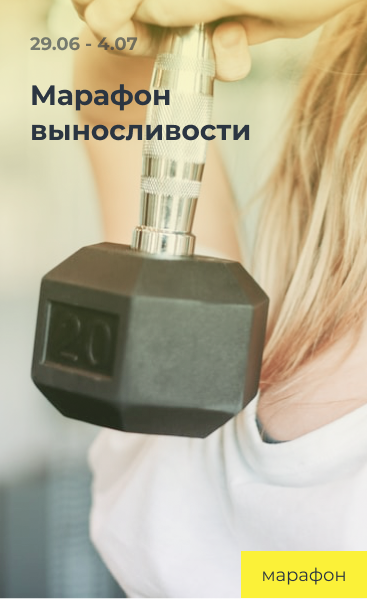
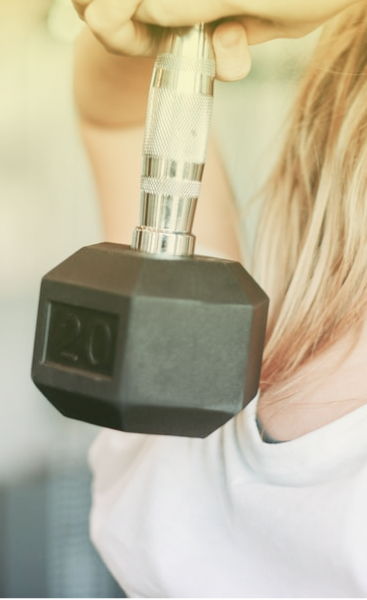
do 600px resolution complited

diff --git a/index.html b/index.html
@@ -53,23 +53,34 @@
                 <img class="pop-up-circle" src="img/circle.svg" alt="circle">
                 <p class="pop-up-title">Заявка на участие<br>«Марафон выносливости»</p>
                 <p class="pop-up-caption">Заполните все поля, и мы пришлем информацию в ближайшее время</p>
+                <form action="">
                 <input class="email" id="pop-up-email" type="email" placeholder="Ваш Email">
                 <input class="email" id="pop-up-email" type="tel" pattern="+7[0-9]{3}-[0-9]{3}-[0-9]{2}-[0-9]{2}" placeholder="Ваш номер телефона">
                 <input class="submit" type="button" value="Отправить">
+                </form>
             </div>
             <h2 class="event-title">Ближайшие события</h2>
             <div class="webinar">
                 <div class="webinar-caption">
+                   <p class="webinar-date">29.06 - 4.07</p>
+                   <p class="webinar-title">Марафон выносливости</p>
+                   <div class="webinar-signature"><p>марафон</p></div>
                    <img src="img/maraphon.png" alt="maraphon">
                    <input id="show" onclick="showDialog()" class="share-360" type="button" value="+">
                    <input id="show" onclick="showDialog()" class="share" type="button" value="участвовать">
                 </div>
                 <div class="webinar-caption">
-                     <img src="img/trainer.png" alt="trainer">
-                     <input id="show" class="share-360" type="button" value="+">
-                     <input class="share" type="button" value="участвовать">
+                    <p class="webinar-date">9.07</p>
+                    <p class="webinar-title">Как стать тренером?</p>
+                    <div class="webinar-signature"><p>вебинар</p></div>
+                    <img src="img/trainer.png" alt="trainer">
+                    <input id="show" class="share-360" type="button" value="+">
+                    <input class="share" type="button" value="участвовать">
                 </div>
-                 <div class="webinar-caption">
+                 <div class="webinar-caption caption-last">
+                    <p class="webinar-date">15.07</p>
+                    <p class="webinar-title">Йога, как стиль жизни</p>
+                    <div class="webinar-signature"><p>вебинар</p></div>
                     <img src="img/yoga.png" alt="yoga">
                     <input id="show" class="share-360" type="button" value="+">
                     <input class="share" type="button" value="участвовать">
@@ -85,7 +96,7 @@
                 <div class="training-caption caption-01">
                     <p class="training-date">22 июня, 10:00</p>
                     <div class="image">
-                        <img src="img/icons/body.svg" alt="body">
+                        <img src="img/icons/body.svg" class="body" alt="body">
                         <h3 class="training-type">Функциональный тренинг</h3>
                     </div>
                     <p class="training-type-description">фитнес высокой интенсивности, с помощью которого можно создать идеальное тело.</p>
@@ -93,7 +104,7 @@
                  <div class="training-caption caption-02">
                     <p class="training-date">23 июня, 10:00</p>
                     <div class="image">
-                        <img src="img/icons/jump.svg" alt="jump">
+                        <img src="img/icons/jump.svg" class="jump" alt="jump">
                         <h3 class="training-type">Силовой микс</h3>
                     </div>
                     <p class="training-type-description">Упражнения помогут создать красивый рельеф и прийти в спортивную форму.</p>
@@ -101,7 +112,7 @@
                  <div class="training-caption caption-03">
                     <p class="training-date">24 июня, 10:00</p>
                     <div class="image">
-                        <img src="img/icons/bottle.svg" alt="bottle">
+                        <img src="img/icons/bottle.svg" class="bottle" alt="bottle">
                         <h3 class="training-type">Body sculpt</h3>
                     </div>
                     <p class="training-type-description">силовой урок, направленный на тренировку всех основных групп мышц.</p>
@@ -109,7 +120,7 @@
                  <div class="training-caption caption-04">
                     <p class="training-date">25 июня, 11:00</p>
                     <div class="image">
-                        <img src="img/icons/heart.svg" alt="heart">
+                        <img src="img/icons/heart.svg" class="heart" alt="heart">
                         <h3 class="training-type">Дыхательные практики</h3>
                     </div>
                     <p class="training-type-description">мощный инструмент, который воздействует на все уровни человеческого существа – от эмоций до физиологии.</p>
@@ -117,7 +128,7 @@
                  <div class="training-caption caption-05">
                     <p class="training-date">26 июня, 11:00</p>
                     <div class="image">
-                        <img src="img/icons/dumbbell.svg" alt="dumbbell">
+                        <img src="img/icons/dumbbell.svg" class="dumbbell" alt="dumbbell">
                         <h3 class="training-type">L.A.B.</h3>
                     </div>
                     <p class="training-type-description">Специализированная система упражнений L.A.B. включает движения для глубокой проработки мышц ног.</p>
@@ -125,7 +136,7 @@
                  <div class="training-caption caption-06">
                      <p class="training-date">27 июня, 10:00</p>
                      <div class="image">
-                        <img src="img/icons/weight.svg" alt="weight">
+                        <img src="img/icons/weight.svg" class="weight" alt="weight">
                         <h3 class="training-type">Комплексная разминка</h3>
                      </div>
                      <p class="training-type-description">Подготовка тела перед физической нагрузкой.</p>

diff --git a/css/style.css b/css/style.css
@@ -304,9 +304,54 @@ input[type=button] {
    width: 100%;
    height: 100%;
    overflow: hidden;
+   position: absolute;
+   left: -50%;
+   top: -50%;
+   transform: translate(50%, 50%);
+   object-fit: cover;
 }
 .webinar-caption:hover .share {
    visibility: visible;
+}
+.webinar-date {
+   position: absolute;
+   z-index: 2;
+   font-weight: 700;
+   font-size: 18px;
+   line-height: 150%;
+   margin: 0;
+   padding: 0;
+   color: #2B3541;
+   opacity: 0.6;
+   margin-top: 30px;
+   margin-left: 30px;
+}
+.webinar-title {
+   position: absolute;
+   z-index: 2;
+   font-weight: 700;
+   font-size: 28px;
+   line-height: 125%;
+   color: #2B3541;
+   margin-top: 77px;
+   margin-left: 30px;
+}
+.webinar-signature {
+   width: 122px;
+   height: 47px;
+   background: #FBF138;
+   position: absolute;
+   z-index: 2;
+   text-align: center;
+   font-weight: 400;
+   font-size: 18px;
+   line-height: 150%;
+   color: #2B3541;
+   bottom: 0;
+   right: 0;
+}
+.webinar-signature p {
+   margin: 10px auto;
 }
 .share {
    position: absolute;
@@ -1175,12 +1220,20 @@ main {
 }
 .training-title {
    font-size: 26px;
+   padding-top: 17px;
+}
+.training-info {
+   margin-top: 45px;
 }
 .workout p {
    font-size: 26px;
 }
 .workout2 {
    font-size: 16px;
+   margin-top: 18px;
+}
+main {
+   height: 607px;
 }
 .more-details {
    width: 340px;
@@ -1195,11 +1248,66 @@ main {
 }
 #event {
    width: 340px;
-   height: 970px;
+   height: 618px;
+}
+.training {
+   margin-top: 9px;
+}
+.training-schedule {
+   height: 881px;
+}
+.training-caption {
+   height: 114px;
+}
+.training-caption:hover {
+   height: 204px;
+}
+.training-type-description {
+   font-size: 12px;
+}
+.training-type-description {
+   width: 233px;
+   margin-left: 78px;
+   margin-top: -140px;
+}
+.image {
+   padding-top: 55px;
+}
+.training-type {
+   margin-left: 50px;
+   margin-top: -26px;
+}
+.body {
+   width: 39px;
+   height: 39px;
+}
+.jump {
+   width: 34px;
+   height: 53px;
+}
+.bottle {
+   width: 23px;
+   height: 45px;
+}
+.heart {
+   width: 39px;
+   height: 37px;
+}
+.dumbbell {
+   width: 46px;
+   height: 25px;
+}
+.weight {
+   width: 35px;
+   height: 40px;
+}
+.webinar {
+   margin-top: 20px;
 }
 .event-title {
    font-size: 26px;
    margin-left: 0;
+   margin-bottom: 10px;
 }
 .webinar-caption {
    width: 165px;
@@ -1211,9 +1319,29 @@ main {
 .share-360 {
    display: block;
 }
-.webinar :last-child {
+.webinar .caption-last {
    width: 340px;
    height: 336px;
+}
+.webinar-date {
+   font-size: 12px;
+   margin-top: 20px;
+   margin-left: 20px;
+}
+.webinar-title {
+   font-size: 16px;
+   margin-top: 48px;
+   margin-left: 20px;
+}
+.webinar-signature {
+   font-size: 12px;
+   width: 87px;
+   height: 30px;  
+   left: 0;
+   
+}
+.webinar-signature p {
+   margin: 6px auto; 
 }
 .training-schedule {
    max-width: 340px;
@@ -1256,10 +1384,17 @@ main {
 .company {
    width: 340px;
    height: 960px;
+   margin-top: 78px;
+}
+.company-title {
+   font-size: 26px;
+}
+.company-message {
+   margin-top: 18px;
 }
 .company-info {
    width: 100%;
-   height: 300px;
+   height: 206px;
    position: relative;
 }
 .company-image {
@@ -1267,7 +1402,7 @@ main {
    height: 207px;
    position: absolute;
    z-index: 3;
-   bottom: -833px;
+   bottom: -805px;
 }
 .company-subscribe {
    width: 359px;
@@ -1290,12 +1425,17 @@ main {
 .advatage-tool {
    width: 200px;
 }
+.footer {
+   height: 222px;
+   margin-top: 77px;
+}
 .footer-menu {
    width: 340px;
 }
 .footer-nav {
    width: 330px;
    padding: 0;
+   margin-top: 40px;
 }
 .footer-nav-item {
    font-size: 12px;
@@ -1305,7 +1445,7 @@ main {
    margin-right: 0;
 }
 .footer-media {
-   margin-top: 20px;
+   margin-top: 9px;
    width: 340px;
 }
 #pop-up {

diff --git a/script/script.js b/script/script.js
@@ -1,5 +1,6 @@
 function showDialog() {
     document.getElementById("pop-up").classList.toggle("showDialog");
+    document.getElementById('pop-up-email').focus();
 }
 function closeDialog() {
     document.getElementById("pop-up").classList.remove("showDialog");
